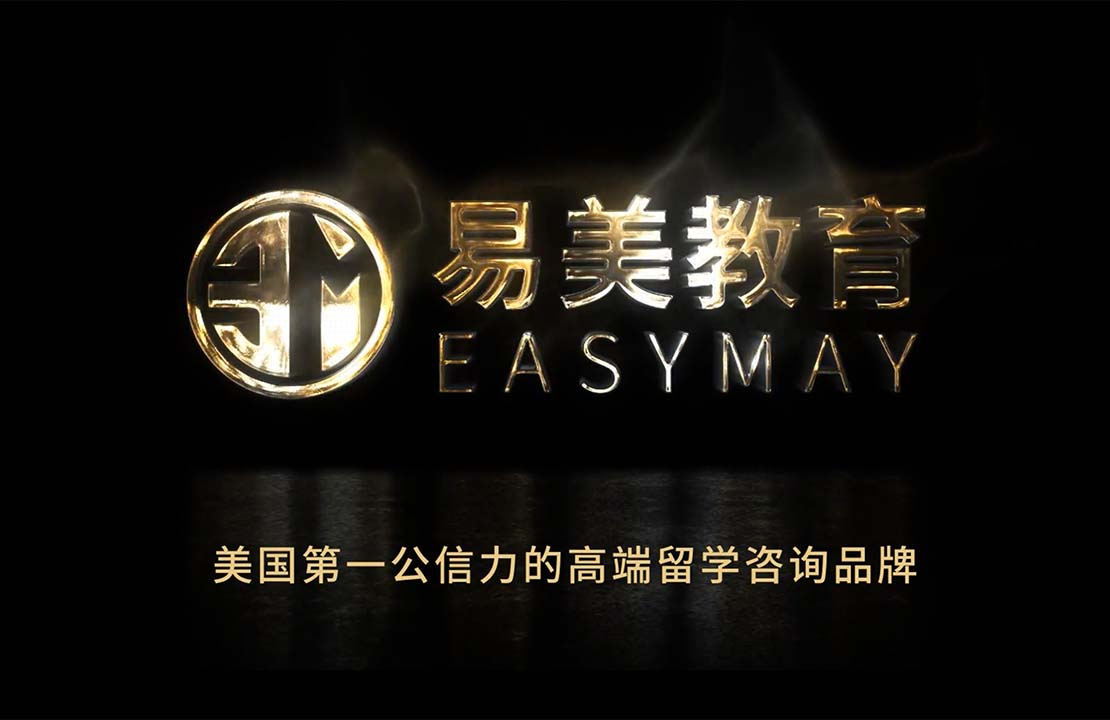
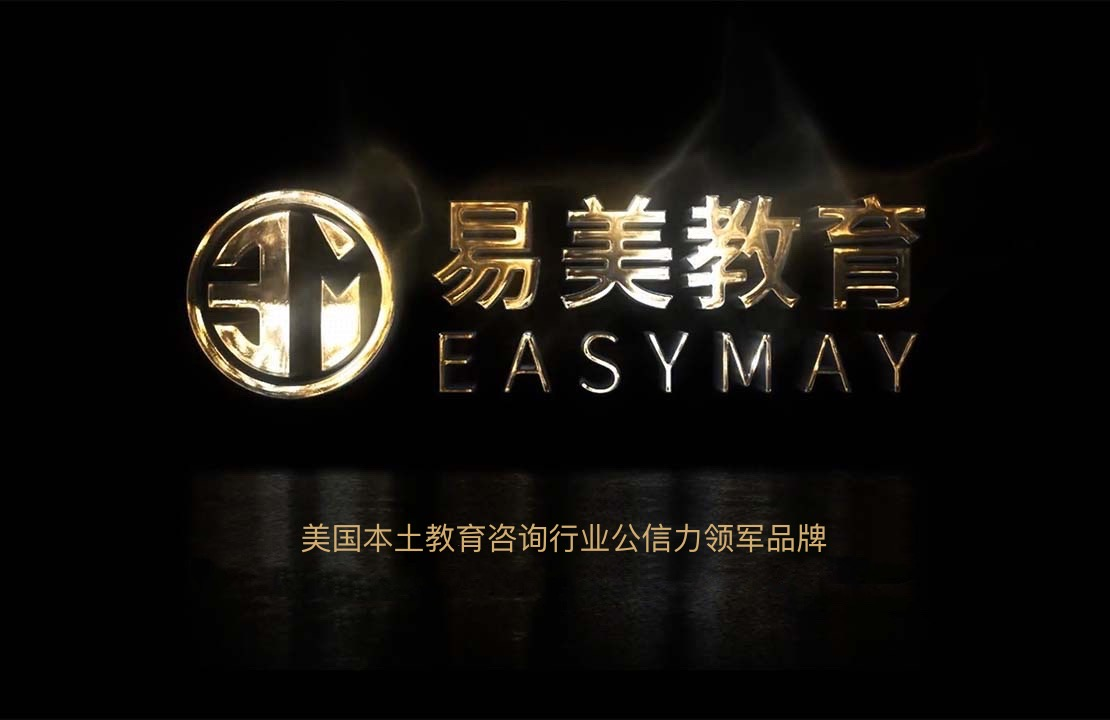
ad changed

Changed region(s): [[0.1838, 0.7028, 0.827, 0.825]]

diff --git a/index.html b/index.html
@@ -394,7 +394,7 @@
                 <h2 class="text-uppercasetext-theme-colored mt-0 line-bottom-theme-colored2 mb-20">Who We <span
                   class="text-color-golden">Are</span></h2>
                 <p class="mb-8 font-13 text-white text-justify">
-                  易美教育集团成立于美国纽约华尔街，多年来结合美国本土化服务优势，以数据为驱动，构建精细化一体化的服务体系，致力于打造集国际教育咨询、房地产信息咨询、海外置业与财富管理为一体的多维度垂直领域服务商。易美教育和易美居地产是易美集团旗下高端教育咨询子品牌和创新型房产咨询服务平台，依靠超高水准的服务品质、注重效果的服务流程、丰富的海外教育资源和优秀的海外专业化团队作为核心竞争力，持续给美国留学生提供真实可靠的一站式留学解决方案，服务链覆盖长线教育规划、留学申请、职业教育、学习规划、考试培训、房产咨询等几大版块。易美教育现已成为美国本土留学咨询公信力第一品牌。
+                  易美教育集团成立于美国纽约华尔街，多年来结合美国本土化服务优势，以数据为驱动，构建精细化一体化的服务体系，致力于打造集国际教育咨询、房地产信息咨询、海外置业与财富管理为一体的多维度垂直领域服务商。易美教育和易美居地产是易美集团旗下高端教育咨询子品牌和创新型房产咨询服务平台，依靠超高水准的服务品质、注重效果的服务流程、丰富的海外教育资源和优秀的海外专业化团队作为核心竞争力，持续给美国留学生提供真实可靠的一站式留学解决方案，服务链覆盖长线教育规划、留学申请、职业教育、学习规划、考试培训、房产咨询等几大版块。美国本土教育咨询行业公信力领军品牌。
                 </p>
                 <p class="text-white font-13 text-justify">
                   2018年，易美教育完成数千万元战略投资，战略投资方是中国最大的房地产流通服务企业、拥有多家上市企业的易居中国。2016与2017年，易美教育两次成为中美投融资峰会的独家教育类赞助商，连续两年成为“北美企业校园行”的唯一美国本土教育机构，横跨美国几大州，覆盖美国名校60多所和在美留学生近7万人，并与校方学生组织达成官方战略合作，覆盖在美留学生超过7万人，同时也是唯一一家通过背景调查的教育机构进入哈佛、宾大、哥大、康奈尔等藤校大型峰会与宣讲会，与招生办互通有无。易美独家招生官顾问委员会和名企职业咨询顾问委员会，拥有近50位TOP30名校前招生官和上千位名企中高管为学生1对1全程指导。强大的名校名企资源和本土化服务团队，都是您圆梦名校和名企的最佳选择。
@@ -1126,7 +1126,7 @@
             <div class="col-md-12 text-center text-white">
               <h1 class="ml12">
               <span class="text-wrapper">
-              <span class="letters font-weight-800 font-29 ">美国本土第一公信力的高端留学咨询品牌</span>
+              <span class="letters font-weight-800 font-29 ">美国本土教育咨询行业公信力领军品牌</span>
             </span>
               </h1>
               <script src="https://cdnjs.cloudflare.com/ajax/libs/animejs/2.0.2/anime.min.js"></script>

diff --git a/about.html b/about.html
@@ -241,7 +241,7 @@
                    style="position: relative; z-index: 5; min-width: 100%; max-width: 100%; white-space: nowrap; font-size: 45px; line-height: 48px; font-weight: 900; color: #ffffff; letter-spacing: 0px;font-family:Montserrat;">
 
 
-                <h1 class="text-white text-uppercase mt-0 mb-0 font-48 text-theme-colored2">北美公信力第一高端留学品牌</h1>
+                <h1 class="text-white text-uppercase mt-0 mb-0 font-48 text-theme-colored2">美国本土教育咨询行业公信力领军品牌</h1>
 
               </div>
 
